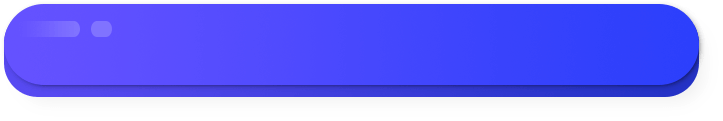
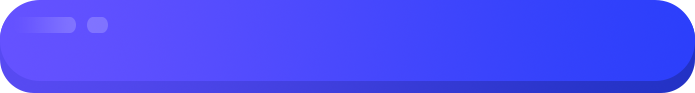
修改button图标png

diff --git a/src/views/Me.vue b/src/views/Me.vue
@@ -246,7 +246,7 @@ export default {
     width: 100%;
     height: 0.93rem;
     background: url('../assets/me/butten-bg-hongbao@2x.png') no-repeat;
-    background-size: cover;
+    background-size: contain;
 }
 
 .redeem-hb-btn .redeem-hb-btn-text {
